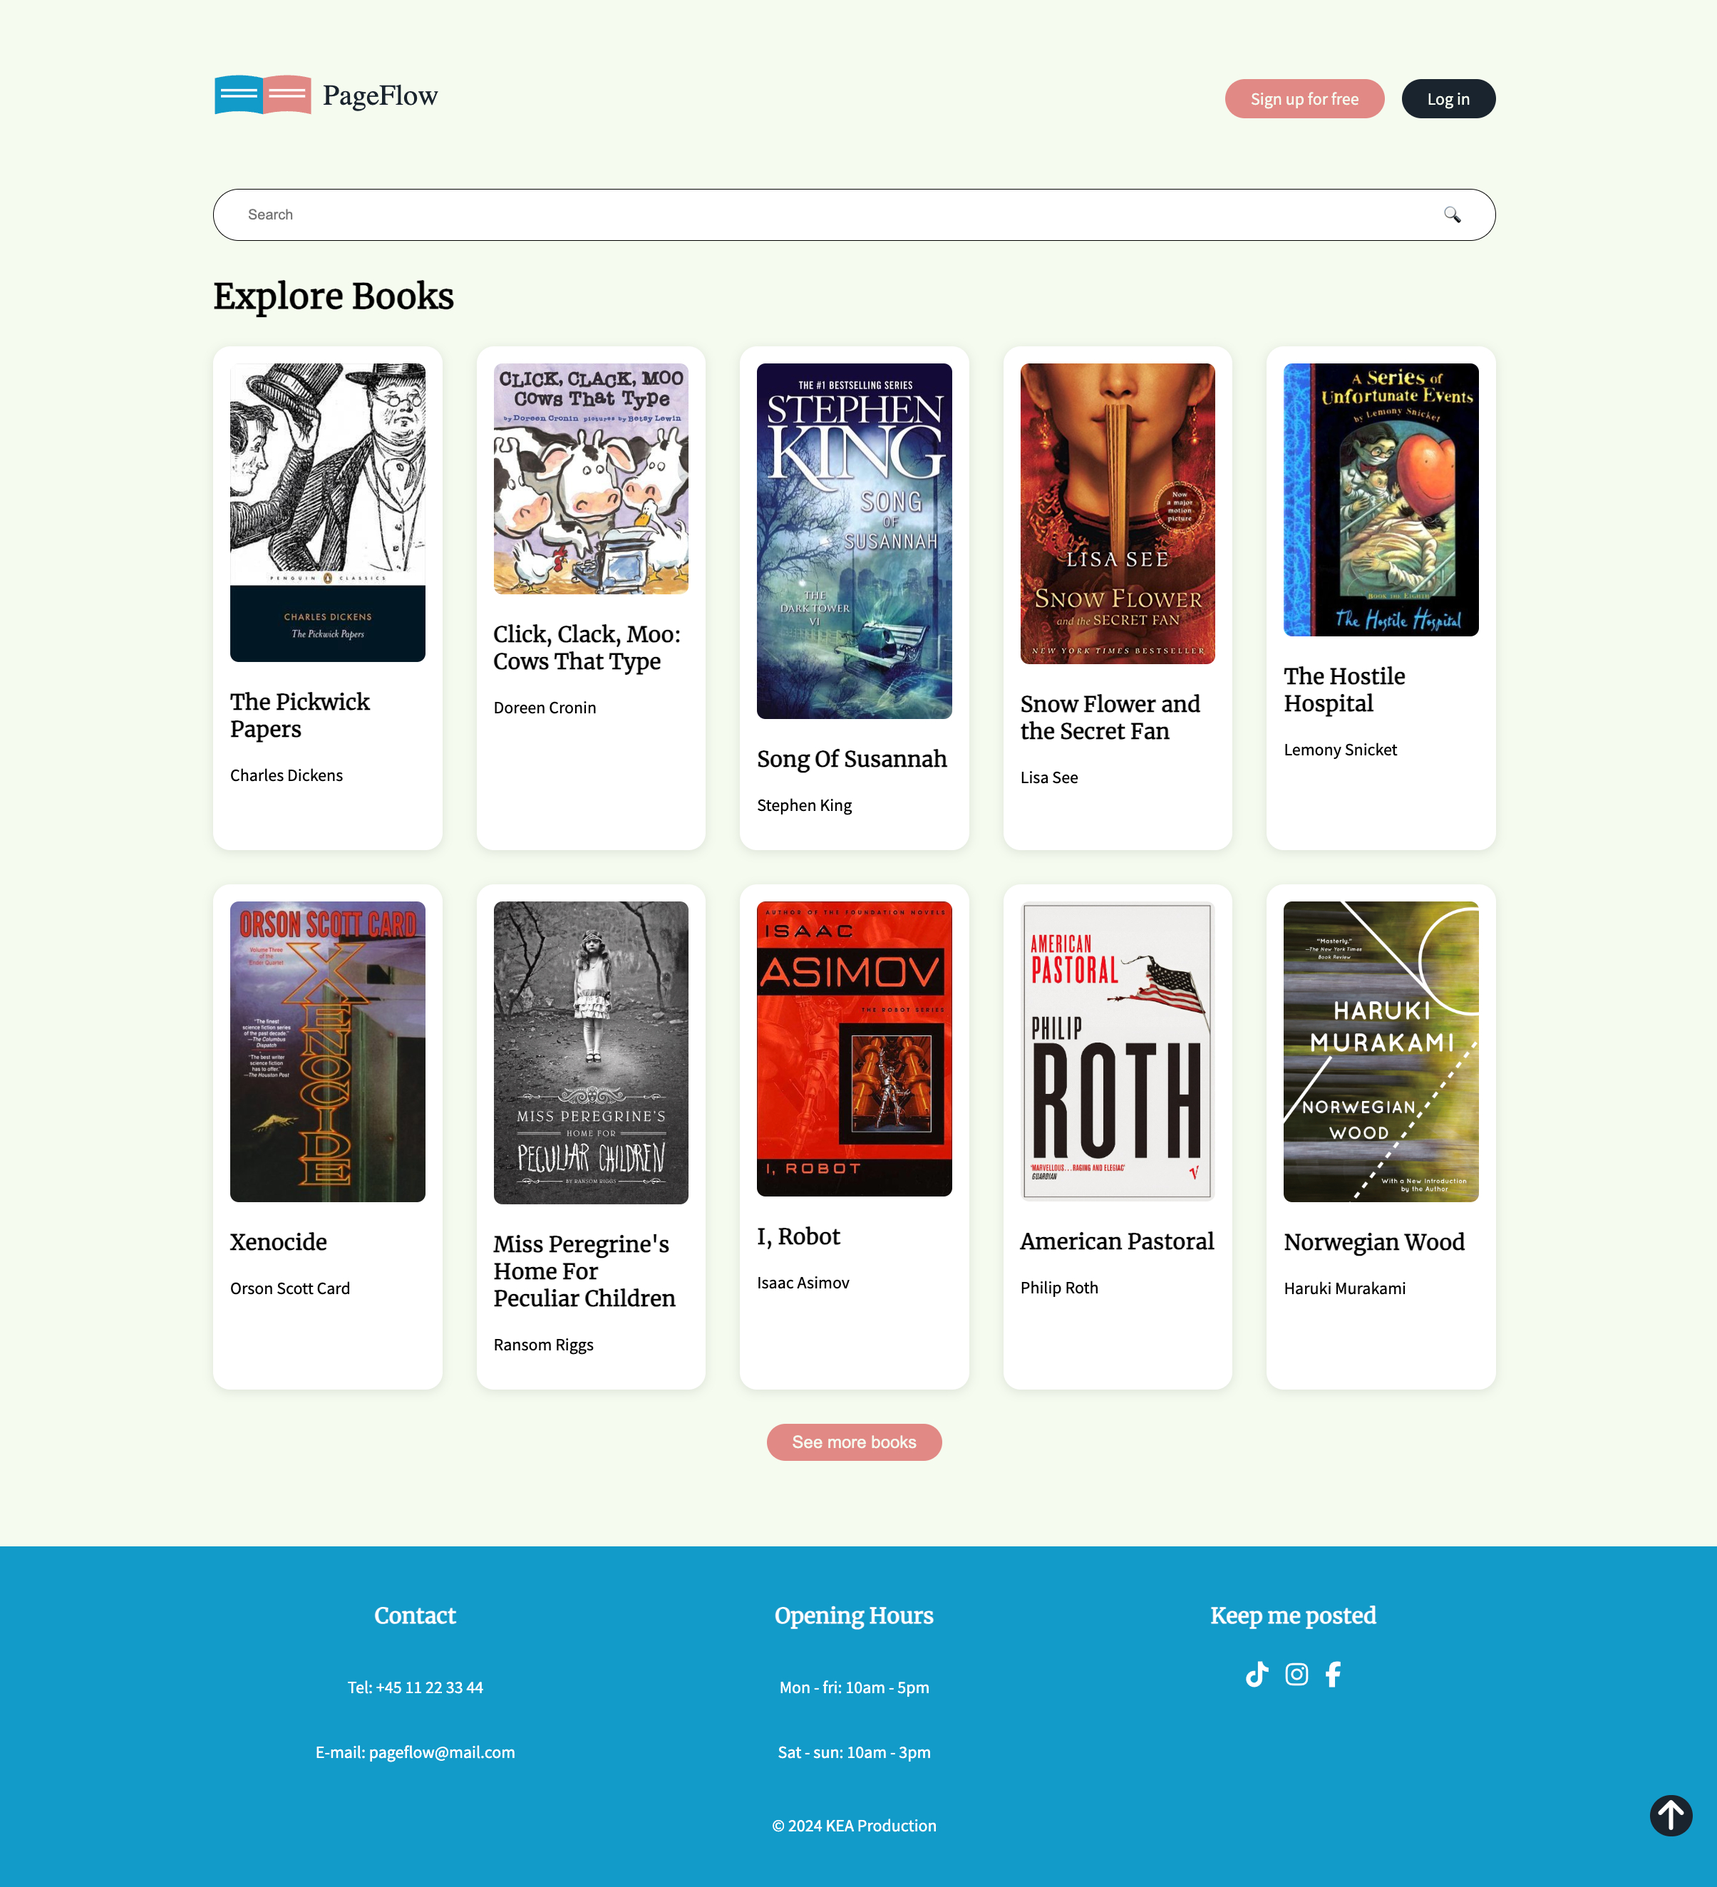
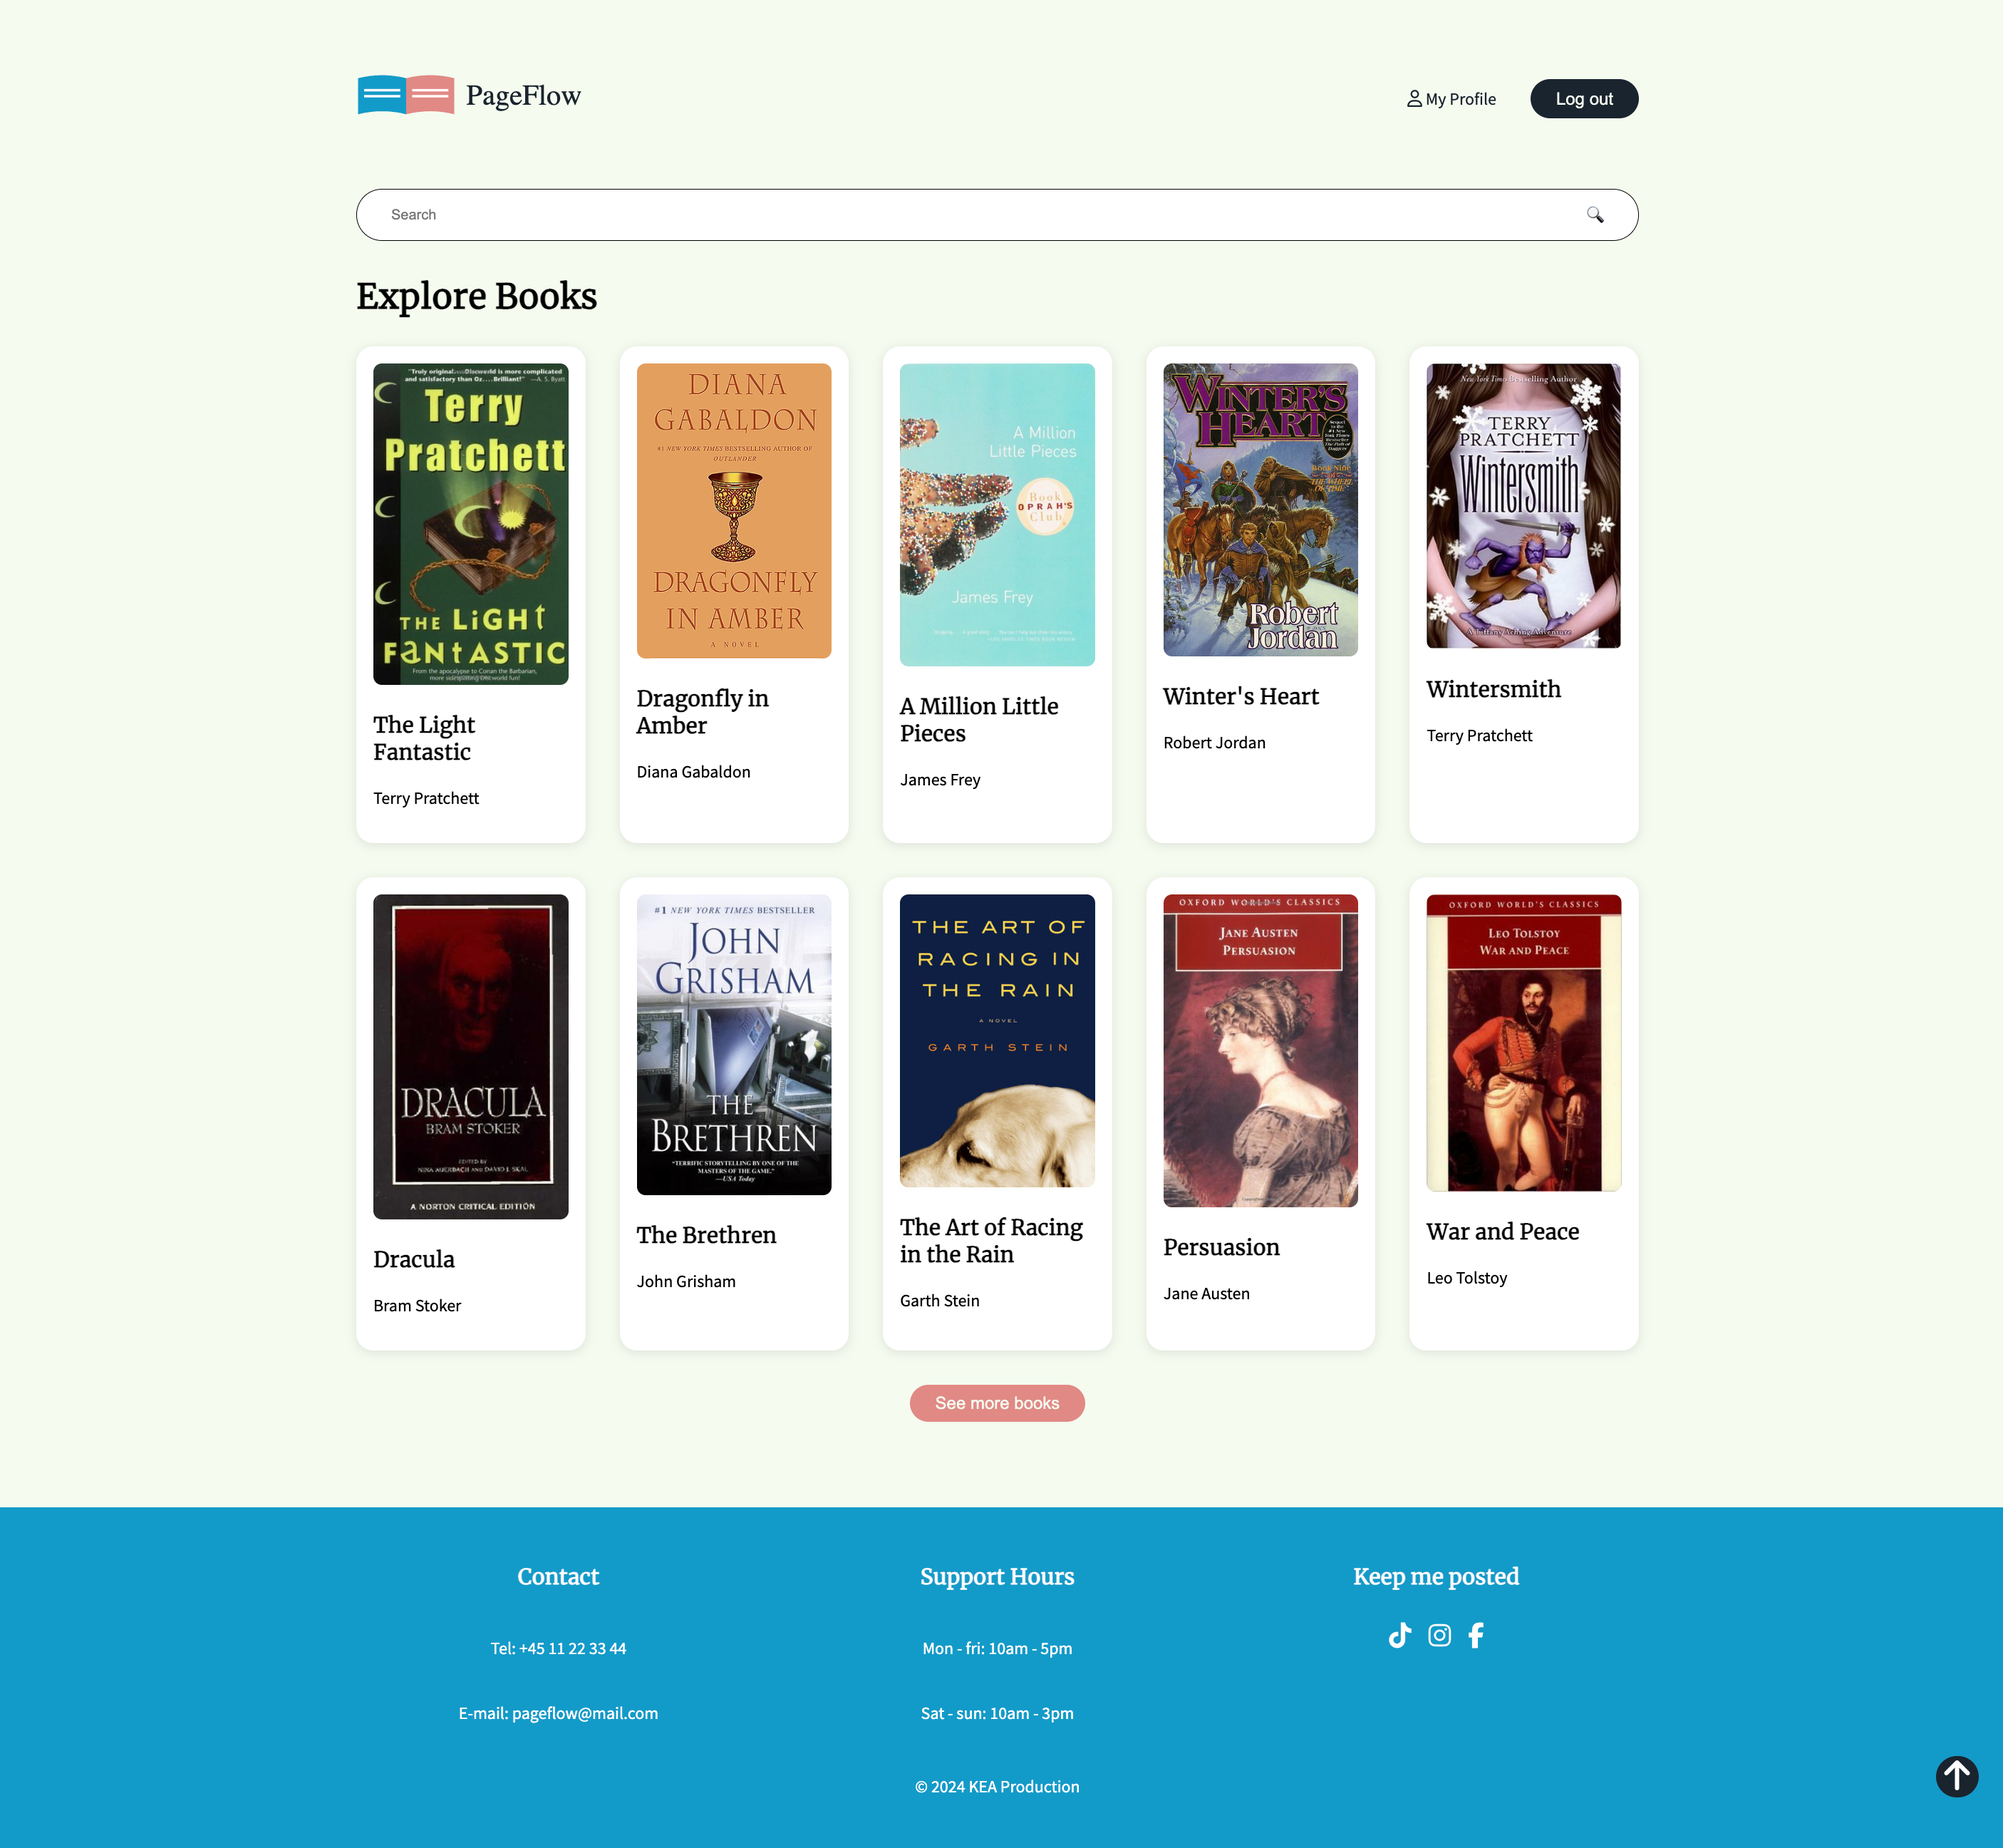
working on fetching and displaying of books

diff --git a/not_in_use/books_slow-but-reliable-fetch.js b/not_in_use/books_slow-but-reliable-fetch.js
@@ -1,0 +1,287 @@
+let isMounted = false;
+let currentFetchController = null;
+let currentPage = 1;
+const booksPerPage = 10;
+const bookDetailsCache = new Map();
+
+function debounce(func, wait) {
+   let timeout;
+   return function executedFunction(...args) {
+       const later = () => {
+           clearTimeout(timeout);
+           func(...args);
+       };
+       clearTimeout(timeout);
+       timeout = setTimeout(later, wait);
+   };
+}
+
+async function fetchWithRetry(url, maxRetries = 3, delay = 1000) {
+   if (currentFetchController) {
+       currentFetchController.abort();
+   }
+   currentFetchController = new AbortController();
+
+   for (let i = 0; i < maxRetries; i++) {
+       try {
+           const response = await fetch(url, {
+               signal: currentFetchController.signal
+           });
+           if (!response.ok) throw new Error(`HTTP error! status: ${response.status}`);
+           const data = await response.json();
+           if (!isMounted) return null;
+           return data;
+       } catch (error) {
+           if (error.name === 'AbortError') {
+               console.log('Fetch aborted');
+               return null;
+           }
+           if (i === maxRetries - 1) throw error;
+           await new Promise(resolve => setTimeout(resolve, delay));
+           if (!isMounted) return null;
+       }
+   }
+}
+
+async function fetchRandomBooks(count = 10) {
+   try {
+       const books = await fetchWithRetry(`http://localhost:8080/books?n=${count}`);
+       if (!books || !isMounted) return [];
+       
+       // Kør fetches sekventielt
+       const booksWithDetails = [];
+       for (const book of books) {
+           if (!isMounted) break;
+           
+           try {
+               // Check cache first
+               if (bookDetailsCache.has(book.book_id)) {
+                   const cachedDetails = bookDetailsCache.get(book.book_id);
+                   booksWithDetails.push({
+                       ...book,
+                       cover: cachedDetails.cover && cachedDetails.cover.trim() !== '' 
+                           ? cachedDetails.cover 
+                           : 'static/images/placeholder-cover.png'
+                   });
+                   continue;
+               }
+
+               // Fetch new details
+               const details = await fetchWithRetry(`http://localhost:8080/books/${book.book_id}`);
+               if (details && details.cover && details.cover.trim() !== '') {
+                   console.log(`Successfully fetched cover for: ${book.title}`, {
+                       coverUrl: details.cover,
+                       fullDetails: details
+                   });
+                   bookDetailsCache.set(book.book_id, details);
+                   booksWithDetails.push({ ...book, cover: details.cover });
+               } else {
+                   booksWithDetails.push({ ...book, cover: 'static/images/placeholder-cover.png' });
+               }
+           } catch (error) {
+               console.error(`Failed to fetch details for book ${book.book_id}:`, error);
+               booksWithDetails.push({ ...book, cover: 'static/images/placeholder-cover.png' });
+           }
+       }
+
+       return booksWithDetails;
+   } catch (error) {
+       console.error('Error fetching random books:', error);
+       return [];
+   }
+}
+
+async function createBookCard(book) {
+   if (!isMounted) return null;
+
+   const coverUrl = (book.cover && book.cover.trim() !== '') 
+       ? book.cover 
+       : 'static/images/placeholder-cover.png';
+       
+   console.log(`Creating card for "${book.title}":`, {
+       providedCover: book.cover,
+       usingCoverUrl: coverUrl
+   });
+
+   return `
+       <article class="book-card" 
+           data-book-id="${book.book_id}"
+           tabindex="0" 
+           role="button"
+           aria-label="View details for ${book.title} by ${book.author}"
+           onclick="window.location.href='/book.html?id=${book.book_id}'"
+           onkeydown="if(event.key === 'Enter') window.location.href='/book.html?id=${book.book_id}'">
+           <div class="book-cover">
+               <img 
+                   src="${coverUrl}"
+                   alt="Cover of ${book.title}"
+                   onerror="this.src='static/images/placeholder-cover.png'"
+               />
+           </div>
+           <h3>${book.title}</h3>
+           <p>${book.author}</p>
+       </article>
+   `;
+}
+
+async function searchBooks(searchTerm) {
+   try {
+       const response = await fetchWithRetry(`http://localhost:8080/books?s=${searchTerm}`);
+       if (!response || !isMounted) return [];
+       return response.filter(book => 
+           book.title.toLowerCase().includes(searchTerm.toLowerCase())
+       );
+   } catch (error) {
+       console.error('Error searching books:', error);
+       return [];
+   }
+}
+
+async function displayBooks(books) {
+   if (!isMounted) return;
+
+   const allBooksContainer = document.getElementById('all-books');
+   allBooksContainer.innerHTML = '';
+
+   // Show a loading indicator
+   allBooksContainer.innerHTML = '<div class="book-card book-card-skeleton"></div>'.repeat(10);
+
+   const displayedBookIds = new Set();
+
+   if (Array.isArray(books)) {
+       const bookCards = [];
+       for (const book of books) {
+           if (!isMounted) break;
+           if (!displayedBookIds.has(book.book_id)) {
+               const bookCard = await createBookCard(book);
+               if (bookCard) {
+                   bookCards.push(bookCard);
+                   displayedBookIds.add(book.book_id);
+               }
+           }
+       }
+
+       if (isMounted) {
+           allBooksContainer.innerHTML = bookCards.join('');
+       }
+   } else {
+       const initialBooks = await fetchRandomBooks(10);
+       if (!isMounted) return;
+       
+       const initialBookCards = [];
+       for (const book of initialBooks) {
+           if (!isMounted) break;
+           if (!displayedBookIds.has(book.book_id)) {
+               const bookCard = await createBookCard(book);
+               if (bookCard) {
+                   initialBookCards.push(bookCard);
+                   displayedBookIds.add(book.book_id);
+               }
+           }
+       }
+
+       if (isMounted) {
+           allBooksContainer.innerHTML = initialBookCards.join('');
+       }
+   }
+}
+
+async function loadMoreBooks() {
+    if (!isMounted) return;
+
+    try {
+        // Add skeleton loaders after existing content
+        const allBooksContainer = document.getElementById('all-books');
+        allBooksContainer.insertAdjacentHTML('beforeend', 
+            '<div class="book-card book-card-skeleton"></div>'.repeat(booksPerPage)
+        );
+
+        const moreBooks = await fetchRandomBooks(booksPerPage);
+        if (!isMounted) return;
+        
+        // Remove skeleton loaders
+        const skeletons = allBooksContainer.querySelectorAll('.book-card-skeleton');
+        skeletons.forEach(skeleton => skeleton.remove());
+        
+        const displayedBookIds = new Set(
+            Array.from(allBooksContainer.querySelectorAll('.book-card'))
+                .map(card => Number(card.getAttribute('data-book-id')))
+        );
+
+        if (moreBooks.length === 0) {
+            document.getElementById('load-more').disabled = true;
+            return;
+        }
+
+        for (const book of moreBooks) {
+            if (!isMounted) break;
+            if (!displayedBookIds.has(book.book_id)) {
+                const bookCard = await createBookCard(book);
+                if (bookCard) {
+                    allBooksContainer.insertAdjacentHTML('beforeend', bookCard);
+                    displayedBookIds.add(book.book_id);
+                }
+            }
+        }
+
+        currentPage++;
+    } catch (error) {
+        console.error('Error loading more books:', error);
+        if (isMounted) {
+            // Remove skeleton loaders if there's an error
+            const skeletons = document.querySelectorAll('.book-card-skeleton');
+            skeletons.forEach(skeleton => skeleton.remove());
+            
+            alert('An error occurred while loading more books.');
+        }
+    }
+}
+
+document.addEventListener('DOMContentLoaded', async () => {
+   isMounted = true;
+
+   // Cleanup function for when leaving the page
+   const cleanup = () => {
+       isMounted = false;
+       if (currentFetchController) {
+           currentFetchController.abort();
+       }
+   };
+
+   // Add cleanup on page unload
+   window.addEventListener('unload', cleanup);
+
+   document.getElementById('load-more').addEventListener('click', async () => {
+       if (!isMounted) return;
+       
+       const button = document.getElementById('load-more');
+       button.disabled = true;
+       try {
+           await loadMoreBooks();
+       } finally {
+           if (isMounted) {
+               button.disabled = false;
+           }
+       }
+   });
+
+   const searchInput = document.getElementById('search-input');
+   
+   const performSearch = debounce(async (value) => {
+       if (!isMounted) return;
+       
+       if (value === '') {
+           const initialBooks = await fetchRandomBooks(10);
+           if (isMounted) await displayBooks(initialBooks);
+       } else {
+           const searchResults = await searchBooks(value);
+           if (isMounted) await displayBooks(searchResults);
+       }
+   }, 300);
+
+   searchInput.addEventListener('input', async (e) => {
+       performSearch(e.target.value.trim());
+   });
+
+   await displayBooks();
+});

diff --git a/static/js/author.js b/static/js/author.js
@@ -1,3 +1,4 @@
+// author.js
 const bookDetailsCache = new Map();
 
 async function getBookCover(bookId) {
@@ -12,7 +13,7 @@ async function getBookCover(bookId) {
         return bookDetails.cover || 'static/images/placeholder-cover.png';
     } catch (error) {
         console.error(`Error fetching details for book ${bookId}:`, error);
-        return '/static/images/placeholder-cover.png';
+        return 'static/images/placeholder-cover.png';
     }
 }
 
@@ -21,14 +22,14 @@ async function displayAuthorBooks(books, authorName) {
     const bookList = document.getElementById('book-list');
 
     // Vis skeleton loading
-    bookList.innerHTML = '<div class="book-card book-card-skeleton"></div>'.repeat(10);
+    bookList.innerHTML = '<div class="book-card book-card-skeleton"></div>'.repeat(5);
 
     if (books.length > 0) {
         const bookCards = await Promise.all(
             books.map(async (book) => {
                 const coverUrl = await getBookCover(book.book_id);
                 return `
-                    <div class="book-card" onclick="window.location.href='/book.html?id=${book.book_id}'">
+                    <div class="book-card" onclick="window.location.href='/book-details.html?id=${book.book_id}'">
                         <div class="book-cover">
                             <img src="${coverUrl}"
                                  alt="${book.title}"

diff --git a/static/js/navigation.js b/static/js/navigation.js
@@ -70,20 +70,3 @@ navLinks.forEach(link => {
         link.classList.add('active');
     }
 });
-
-const backToTopBtn = document.getElementById('back-to-top');
-
-window.addEventListener('scroll', () => {
-    if (window.pageYOffset > 300) {
-        backToTopBtn.style.display = 'block';
-    } else {
-        backToTopBtn.style.display = 'none';
-    }
-});
-
-backToTopBtn.addEventListener('click', () => {
-    window.scrollTo({
-        top: 0,
-        behavior: 'smooth'
-    });
-});

diff --git a/book-details.html b/book-details.html
@@ -13,7 +13,6 @@
     <link rel="stylesheet" href="static/css/book.css">
     <link rel="stylesheet" href="static/css/skeleton.css">
     <script defer src="static/js/navigation.js"></script>
-    <script defer src="static/js/index.js"></script>
     <script defer src="static/js/book-detail.js"></script>
 </head>
 

diff --git a/static/js/book-detail.js b/static/js/book-detail.js
@@ -1,3 +1,4 @@
+// book-detail.js
 function checkLoginStatus() {
     return localStorage.getItem('userId') !== null;
 }
